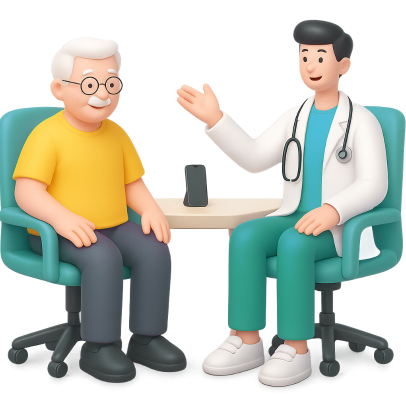
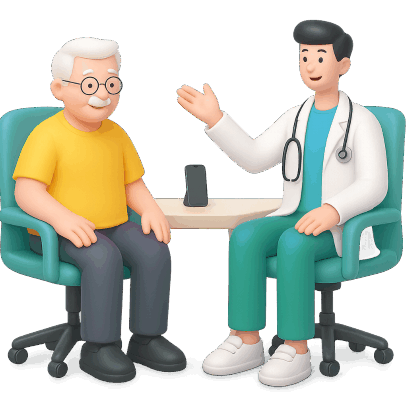
个人中心页面

Changed region(s): [[0.4729, 0.2064, 0.5025, 0.2359]]

diff --git a/src/pages/tabBar/user/user.vue b/src/pages/tabBar/user/user.vue
@@ -9,7 +9,14 @@
 			paddingBottom: `${safeInsetBottom}px`,
 		}"
 	>
-		<NavBar title="我的" :bgImage="navBg" />
+		<NavBar :bgImage="navBg">
+			<template #left>
+				<text class="nav-title" style="color: #fff">新疆保健服务</text>
+			</template>
+		</NavBar>
+		<view class="user-info-wrap">
+			<HomeCard />
+		</view>
 		<view class="entry-wrapper">
 			<view class="menus-wrapper">
 				<uv-list>
@@ -25,10 +32,14 @@
 					>
 						<template #header>
 							<view
-								class="service-row-icon iconfont"
-								:class="`icon-${item.icon} ${item.label}`"
+								class="service-row-icon"
 								style="margin-right: 20rpx"
 							>
+								<image
+									:src="item.iconName"
+									mode="aspectFit"
+									style="width: 40rpx; height: 40rpx"
+								/>
 							</view>
 						</template>
 						<template #footer>
@@ -54,25 +65,22 @@
 import { ref, computed, defineOptions } from 'vue';
 import { onShow } from '@dcloudio/uni-app';
 import NavBar from '@/components/NavBar.vue';
-import useLoginStore from '@/store/login';
-import Background from '@/components/Background.vue';
 import HomeCard from '@/components/HomeCard.vue';
 import Tabbar from '@/components/Tabbar.vue';
 import { isEmpty, to, checkLogin } from '@/utils';
-import navBg from '@/static/home/nav-bg.png';
+import navBg from '@/static/home/home-bg.png';
+
+import beianxinxi from '@/static/home/beianxinxi.png';
+import wodepingjia from '@/static/home/wodepingjia.png';
+import wodeyuyue from '@/static/home/wodeyuyue.png';
 
 defineOptions({
 	options: {
 		styleIsolation: 'shared',
 	},
 });
+const userInfo = ref(null);
 
-const cellStyle = ref({
-	background: 'white',
-	paddingTop: '15px',
-	paddingBottom: '15px',
-	marginBottom: '20px',
-});
 const menus = ref([
 	{
 		name: '备案信息',
@@ -80,6 +88,7 @@ const menus = ref([
 		label: 'record',
 		icon: 'beianxinxi',
 		color: '#FDA062',
+		iconName: beianxinxi,
 	},
 	{
 		name: '我的评价',
@@ -87,6 +96,7 @@ const menus = ref([
 		label: 'evaluate',
 		icon: 'pingjia',
 		color: '#67B5F9',
+		iconName: wodepingjia,
 	},
 	// {
 	// 	name: '我的问卷',
@@ -101,6 +111,7 @@ const menus = ref([
 		label: 'reservation',
 		icon: 'wodeyuyue',
 		color: '#FC668B',
+		iconName: wodeyuyue,
 	},
 ]);
 
@@ -118,6 +129,16 @@ const handleRoute = (type) => {
 		}
 	});
 };
+
+const handleOnShow = () => {
+	// 可以在这里获取和更新用户信息
+	const auth = uni.getStorageSync('b2cAuth');
+	if (isEmpty(auth)) {
+		userInfo.value = null;
+		return;
+	}
+	userInfo.value = auth;
+};
 const safeInsetBottom = ref(0);
 onBeforeMount(() => {
 	const systemInfo = uni.getSystemInfoSync();
@@ -125,16 +146,24 @@ onBeforeMount(() => {
 	safeInsetBottom.value = systemInfo.safeAreaInsets.bottom + 51;
 	// #endif
 });
+
+onShow(() => {
+	// 可以在这里获取和更新用户信息
+	handleOnShow();
+});
 </script>
 <style lang="scss">
 .user {
 	min-height: 100vh;
+	.user-info-wrap {
+		padding: 10rpx 16px;
+	}
 	.entry-wrapper {
 		margin: 0 16px;
-		margin-top: 500rpx;
+		margin-top: 20rpx;
 		box-shadow: 0 0 10px rgba(0, 0, 0, 0.1);
 		border-radius: 20rpx;
-		padding: 16px 0;
+		overflow: hidden;
 		.uv-line {
 			display: none;
 		}
@@ -142,13 +171,9 @@ onBeforeMount(() => {
 			padding-right: 0 !important;
 		}
 		.service-row-icon {
-			// color: #09c3ad;
 			width: 55rpx;
 			height: 55rpx;
 			border-radius: 50%;
-			// border: 1px solid #e7e6e4;
-			// border: 1px solid #09c3ad;
-			// border: 1px dashed rgba(0, 0, 0, 0.25);
 			position: relative;
 			display: flex;
 			justify-content: center;
@@ -167,12 +192,16 @@ onBeforeMount(() => {
 		}
 	}
 	.menus-wrapper {
-		// display: flex;
-		// flex-wrap: wrap;
-		// gap: 10px;
-		// justify-content: space-between;
 		position: relative;
 		width: 100%;
+		padding-right: 12px;
+		background-color: #fff;
+		// #ifdef H5
+		padding-right: 0;
+		// #endif
+		.uv-icon-wrapper {
+			padding-right: 15px !important;
+		}
 	}
 	.menus-item {
 		width: 100%;

diff --git a/src/components/HomeCard.vue b/src/components/HomeCard.vue
@@ -1,19 +1,28 @@
 <template>
 	<view class="home-card">
-		<view class="page-gap flex-center" @click="handleDetail">
+		<view
+			class="page-gap user-wrapper"
+			:class="[
+				userInfo
+					? 'has-user-info'
+					: 'no-user-info flex-col flex-between flex-center',
+			]"
+			@click="handleDetail"
+		>
 			<uv-avatar
 				:text="
 					userInfo && userInfo.name ? userInfo.name.substr(0, 1) : ''
 				"
+				:src="initAvatar"
 				:size="props.size"
 				bg-color="rgb(152, 209, 238)"
-				style="border: 1px solid white"
+				style="border: 1px solid transparent"
 			></uv-avatar>
 			<view class="person-detail">
 				<view class="name-wrapper flex-center">
-					<text class="name">{{
-						userInfo ? userInfo.name : '去登录'
-					}}</text>
+					<text class="name">
+						{{ userInfo ? userInfo.name : '登录/注册' }}
+					</text>
 					<view v-if="userInfo" class="status">已绑定</view>
 				</view>
 				<view class="phone">{{ userInfo?.mob_num }}</view>
@@ -25,6 +34,8 @@
 import { defineProps } from 'vue';
 import { onShow } from '@dcloudio/uni-app';
 import { isEmpty } from '@/utils';
+import initAvatar from '@/static/home/avatar.png';
+
 const props = defineProps({
 	size: {
 		type: [Number, String],
@@ -70,14 +81,25 @@ onShow(() => {
 </script>
 <style lang="scss">
 .home-card {
-	margin-bottom: 30rpx;
-	padding: 40rpx 0;
-	background: linear-gradient(to right, #e5f6f5, #c3ede7);
+	// background: linear-gradient(to right, #e5f6f5, #c3ede7);
+	.user-wrapper {
+		gap: 12rpx;
+	}
+	.has-user-info {
+		.person-detail {
+			margin-left: 16px;
+		}
+	}
+	.no-user-info {
+		.person-detail {
+			.name {
+				color: #4d4d4d;
+			}
+		}
+	}
 	.person-detail {
-		margin-left: 16px;
-		min-height: 80rpx;
 		.name {
-			font-size: 28rpx;
+			font-size: 16px;
 			font-weight: bold;
 		}
 		.status {

diff --git a/src/pages/subpackage/login/login.vue b/src/pages/subpackage/login/login.vue
@@ -2,7 +2,7 @@
 	<view
 		class="page-container"
 		:style="{
-			backgroundImage: `url(${navBg})`,
+			background: `url(${navBg})`,
 			backgroundSize: '100% auto',
 			backgroundRepeat: 'no-repeat',
 			backgroundPositionY: `${0}px`,
@@ -10,7 +10,6 @@
 		}"
 	>
 		<NavBar :bgImage="navBg" />
-
 		<view class="logo flex-col flex-center">
 			<image
 				src="@/static/home/login-logo.png"
@@ -148,7 +147,7 @@ import { fastLogin, checkUserAuth, getMobileVerifyCode } from '@/api';
 import { isEmpty, to } from '@/utils';
 import constants from '@/utils/constants';
 import NavBar from '@/components/NavBar.vue';
-import navBg from '@/static/home/nav-bg.png';
+import navBg from '@/static/home/login-nav.jpg';
 import safeInset from '@/hooks/safeInset';
 
 const { safeInsetBottom } = safeInset();
@@ -442,7 +441,6 @@ const onToTermsOfService = () => {
 <style lang="scss">
 .page-container {
 	padding-top: 100rpx;
-	background: white;
 	box-sizing: border-box;
 	padding-bottom: calc(160rpx + env(safe-area-inset-bottom));
 	position: relative;
